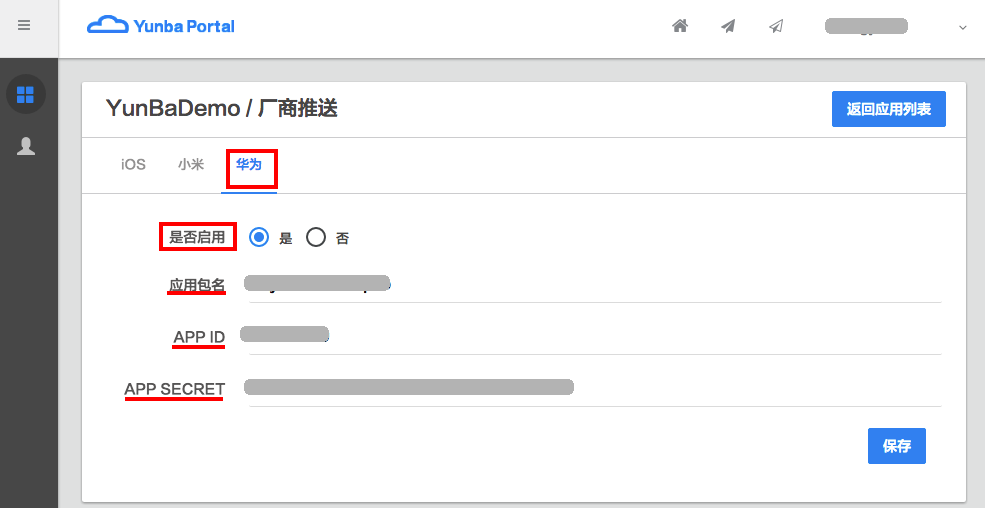
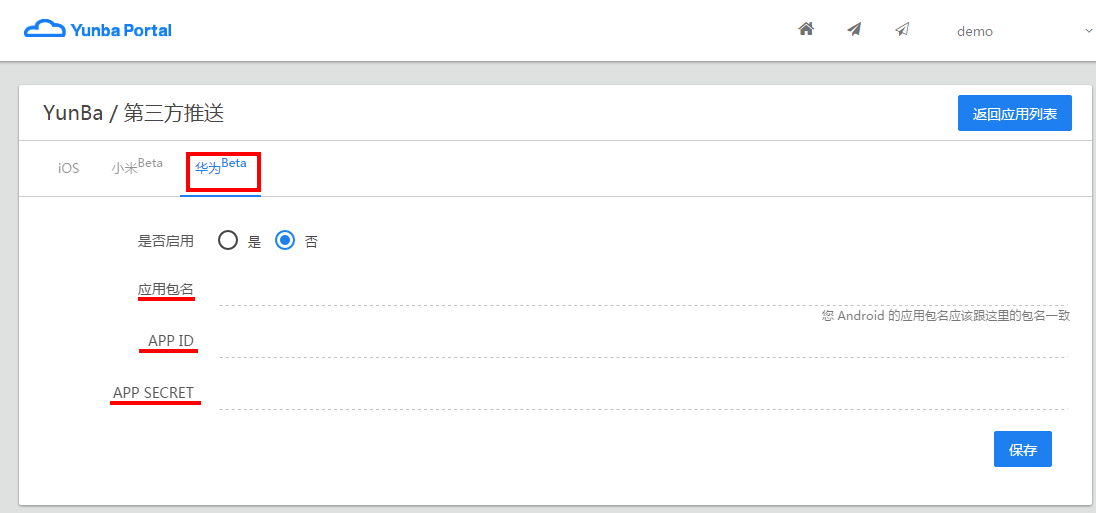
modify third-part doc and image

diff --git a/android_sdk_third_part_push.md b/android_sdk_third_part_push.md
@@ -1,6 +1,6 @@
 # 第三方推送集成
 
-*说明：云巴 1.8.0 版 Android SDK 支持小米、华为推送，云巴会自动识别这两类机型，通过在这两类机型上的小米、华为推送进程来拉起云巴进程，从而实现杀掉 app 也收到推送的效果。在使用第三方推送时不影响其它型号手机接收推送，用户可以按照下面的说明进行设置*
+*说明：为了解决 Android 5.0 及以上平台应用进入后台被杀死的情况，云巴 Android SDK 从 v1.8.0-beta 起支持小米、华为推送，云巴会自动识别这两类机型，通过在这两类机型上的小米、华为推送进程来拉起云巴进程（其中华为使用的是透传，小米用的是通知栏，所以在小米机型上会有收到两条通知栏消息的情况）从而实现杀掉 app 也收到推送的效果（需要应用开启自启动权限）。在使用第三方推送时不影响其它型号手机接收推送，用户可以按照下面的说明进行设置*
 
 ## 准备工作
 
